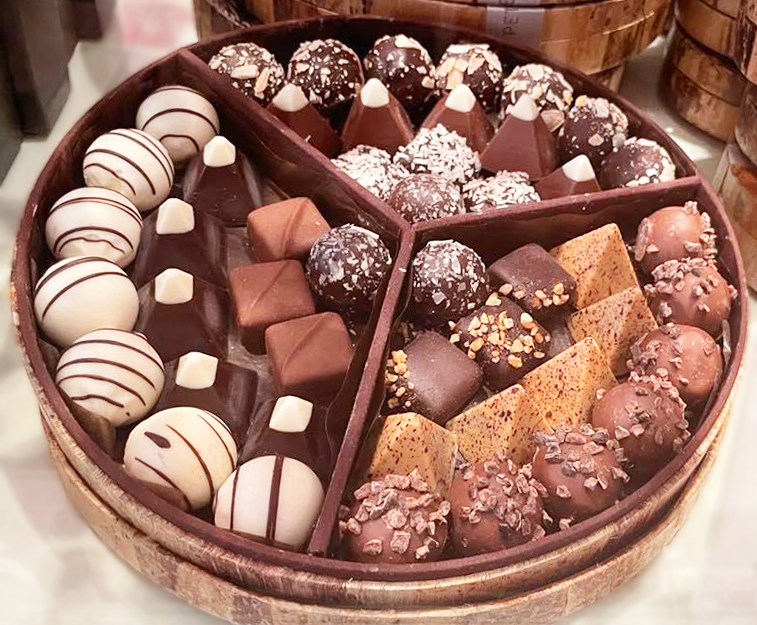
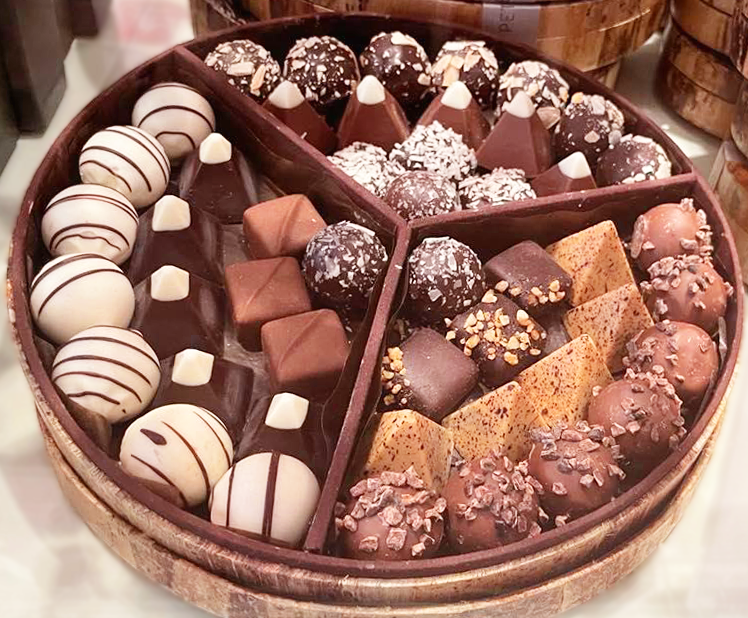
rettet i flere billeder og lagt dem på index

diff --git a/css/styles.scss b/css/styles.scss
@@ -57,6 +57,6 @@ img {
 }
 
 .small-image {
-	width: 25%;
+	width: 50%;
 	height: auto;
 }

diff --git a/index.php b/index.php
@@ -58,13 +58,30 @@
 <div class="container-fluid bg-lavendel">
     <div class="row">
         <div class="col">
-            <div class="container">
-                <img src="images/choko%20balls.png" class="small-image" alt="chokolade kugler"
+            <div class="">
+                <img src="images/choko%20balls.png" class="small-image mx-auto" alt="chokolade kugler"
             </div>
         </div>
         <div class="col">
-            <div class="container">
-                <img src="images/choko%20balls.png" class="small-image" alt="chokolade kugler"
+            <div class="">
+                <img src="images/chokobidder.png" class="small-image mx-auto" alt="chokolade bidder"
+            </div>
+        </div>
+        <div class="col">
+            <div class="">
+                <img src="images/chokofirkant.png" class="small-image mx-auto" alt="chokolade bidder"
+            </div>
+        </div><div class="col">
+            <div class="">
+                <img src="images/chokofirkantkannoet.png" class="small-image mx-auto" alt="chokolade bidder"
+            </div>
+        </div><div class="col">
+            <div class="">
+                <img src="images/chokoglass.png" class="small-image mx-auto" alt="chokolade bidder"
+            </div>
+        </div><div class="col">
+            <div class="">
+                <img src="images/chokosalg2%20v2.png" class="small-image mx-auto" alt="chokolade bidder"
             </div>
         </div>
     </div>
